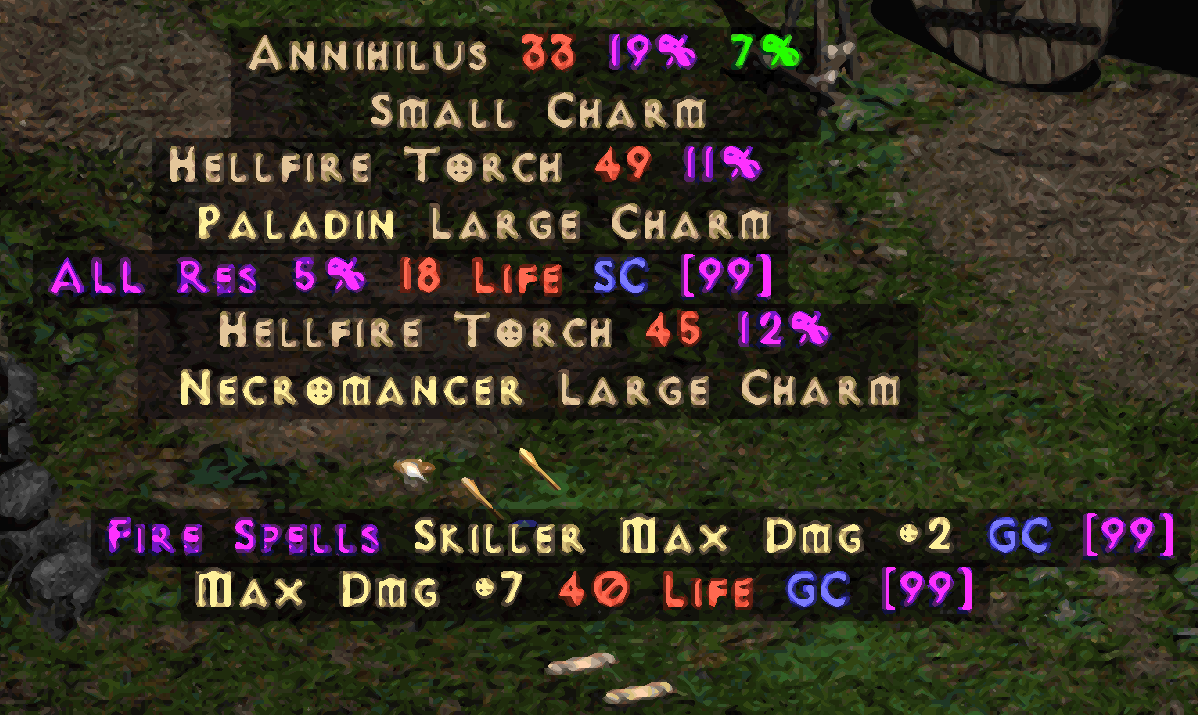
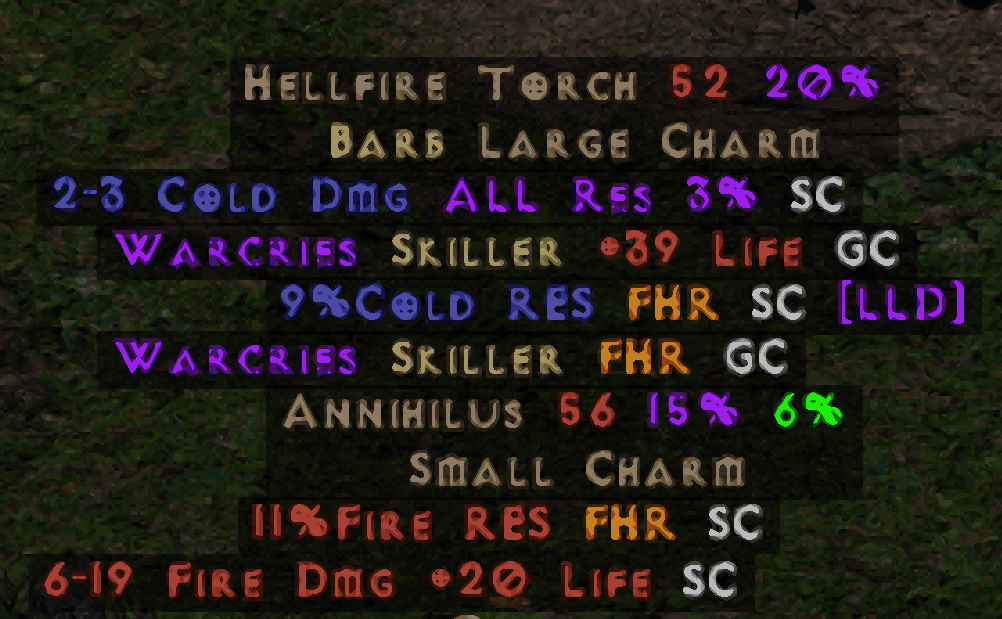
readme

diff --git a/README.md b/README.md
@@ -26,13 +26,24 @@ Charms on ground will show important stats
 
 ## Magic / Rare / Crafted items
 
-These items also show important stats on the ground. Example is of amulets however this applies to many gear slots.
+These items also show important stats on the ground. This applies to many gear slots not just the ones in the example.
+Rings & Amulets also have points implemented:
+* Range: 1Pt, 2pt, 3Pt, 4Pt, GG, OMG
+* Evaluation includes crafts & a few slams
+* 1Pt of Value = high roll of a valuable stat
+* Evaluation takes into account partial rolls
+* Evaluation includes crafts & a few slams
 
 ![img1](examples/magicrares1.PNG?raw=true)
+![img1](examples/magicrares2.PNG?raw=true)
 
 ## LLD
 
 Set/Unique items that are valuable to LLD community carry the [LLD] tag Jewels have a rating system so you can judge if something is nice or GG.
+LLD Jewels have points implemented:
+* Range: 2pt, 2.5 Pt, 3Pt, 3.3 Pt, 3.6 Pt, 4Pt
+* 1Pt of Value = high roll of a valuable stat
+* Evaluation takes into account partial rolls
 
 ![img1](examples/lld1.PNG?raw=true)
 ![img1](examples/lld2.png?raw=true)
@@ -46,9 +57,11 @@ All UNID Set/Unique items show their identified name options
 ## Early / New to PD2 hints
 Utility items have useful notes tool tips.
 Also Filter level 1/2 have a note recommending useful items to "slam"
+T3 Maps will tell you when the rolls are good.
 
 
 ![img1](examples/maps1.png?raw=true)
+![img1](examples/maps2.png?raw=true)
 ![img1](examples/hints1.PNG?raw=true)
 ![img1](examples/slamme1.PNG?raw=true)
 
